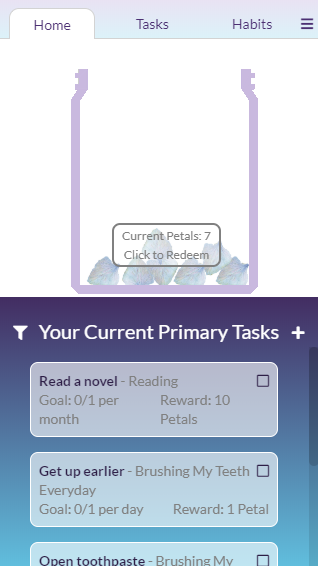
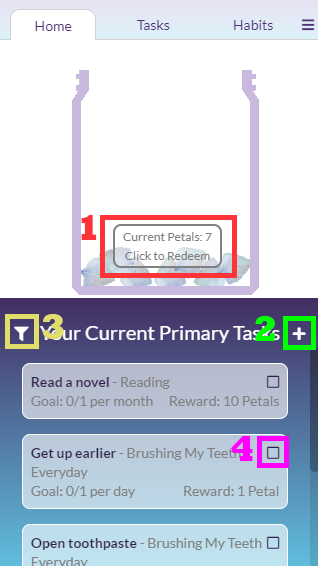
Rework demo component

diff --git a/frontend/src/components/demo/demo.jsx b/frontend/src/components/demo/demo.jsx
@@ -4,12 +4,17 @@ import { withRouter } from 'react-router-dom';
 import { Button, Header, Image, Modal } from 'semantic-ui-react';
 
 import demoLanding from '../../images/demo-landing.png';
+import demoTasks from '../../images/demo-tasks.png';
+import demoHabits from '../../images/demo-habits.png';
+import demoDashboard from '../../images/demo-dashboard.png';
+import demoCreateHabit from '../../images/demo-create-habit.png';
+import demoHabitShow from '../../images/demo-habit-show.png';
 
 const Demo = ({ location }) => {
   const [open, setOpen] = useState(false);
 
   // Trigger for the modal
-  const trigger = (
+  let trigger = (
     <Button
       className="demo-button"
       circular
@@ -19,21 +24,80 @@ const Demo = ({ location }) => {
   );
 
   const modalDetails = {};
-  
-  // eslint-disable-next-line
+
   switch(location.pathname) {
     case "/landing":
       modalDetails.title = "Home Help";
       modalDetails.image = demoLanding;
-      modalDetails.description = (
+      modalDetails.description = (<>
         <p>The home page is the heart of the app. Here you can complete tasks, redeem rewards, and more.</p>
-      );
+        <p>1. A chief feature of Bloom is the petal jar. Petals are what you get for completing tasks. You can redeem your petals at any point by clicking on the indicated panel.</p>
+        <p>2. When you want to add more habits to work on, you can click the indicated plus sign.</p>
+        <p>3. At any point, filter your list of tasks by habit by clicking on the filter button.</p>
+        <p>4. To mark a task as complete, click the checkbox. Tasks that must be completed multiple times will not be marked as complete until the required number of reps has been reached.</p>
+      </>);
       break;
+    case "/tasks":
+      modalDetails.title = "Tasks Help";
+      modalDetails.image = demoTasks;
+      modalDetails.description = (<>
+        <p>The tasks page is a great place to get an overview of all your tasks.</p>
+        <p>1. The auto sort button will sort your tasks based on the order of your habits.</p>
+        <p>2. You can mark tasks as complete from this page by clicking the checkmark.</p>
+        <p>3. Clicking on a task will open a form allowing you to edit it.</p>
+        <p>4. The order of tasks here determines the order they will appear on the home page. However, the home page will not show completed tasks.</p>
+      </>);
+      break;
+    case "/habits":
+      modalDetails.title = "Habits Help";
+      modalDetails.image = demoHabits;
+      modalDetails.description = (<>
+        <p>The habits page shows all the habits you are currently working on.</p>
+        <p>1. Create habits by clicking on the indicated button.</p>
+        <p>2. The minus button by each habit allows you to delete them.</p>
+        <p>3. Clicking on a habit will take you to its edit page.</p>
+        <p>4. Drag and drop habits to reorder them. This affects the auto sort button on the tasks page.</p>
+      </>);
+      break;
+    case "/dashboard":
+      modalDetails.title = "Dashboard Help";
+      modalDetails.image = demoDashboard;
+      modalDetails.description = (<>
+        <p>The dashboard page shows your user details and rewards.</p>
+        <p>1. You can see how many petals you have earned and used in the process of using Bloom.</p>
+        <p>2. Add more rewards for redemption by clicking the indicated button.</p>
+        <p>3. Remove a reward by clicking the minus button.</p>
+        <p>4. Clicking on a reward will allow you to edit it.</p>
+      </>);
+      break;
+    case "/habit":
+      modalDetails.title = "Habit Creation Help";
+      modalDetails.image = demoCreateHabit;
+      modalDetails.description = (<>
+        <p>The habit creation page allows you to make new habits.</p>
+        <p>1. Name your habit using the title field.</p>
+        <p>2. Add a description for what you want to accomplish.</p>
+        <p>3. A good habit can be broken down into periodic tasks. Add them with the indicated button.</p>
+        <p>4. Create the habit by clicking the create habit button or go back by pressing the back button.</p>
+      </>);
+      break;
+    // The default case matches up against the habit show route
+    default:
+      modalDetails.title = "Habit Editing Help";
+      modalDetails.image = demoHabitShow;
+      modalDetails.description = (<>
+        <p>The habit edit page allows you to edit an existing habit.</p>
+        <p>1. Edit the habit's title or delete the habit with the indicated buttons.</p>
+        <p>2. Update the habit's description by clicking the edit button or the description field itself.</p>
+        <p>3. Add and remove tasks by using the indicated plus and X buttons.</p>
+        <p>4. Edit a task by clicking on it.</p>
+      </>);
   }
   
   return (
     <>
       <Modal
+        closeIcon
         onClose={ () => setOpen(false) }
         onOpen={ () => setOpen(true) }
         open={ open }

diff --git a/frontend/src/components/dropdown/dropdown.jsx b/frontend/src/components/dropdown/dropdown.jsx
@@ -25,10 +25,6 @@ class CustomDropdown extends Component {
               onClick={ () => this.props.history.push("/habit") }
             />
             <Dropdown.Item
-              text="Bloom Demo"
-              onClick={ () => this.props.openModal("demo") }
-            />
-            <Dropdown.Item
               text="Log Out"
               onClick={ this.props.logout }
             />
